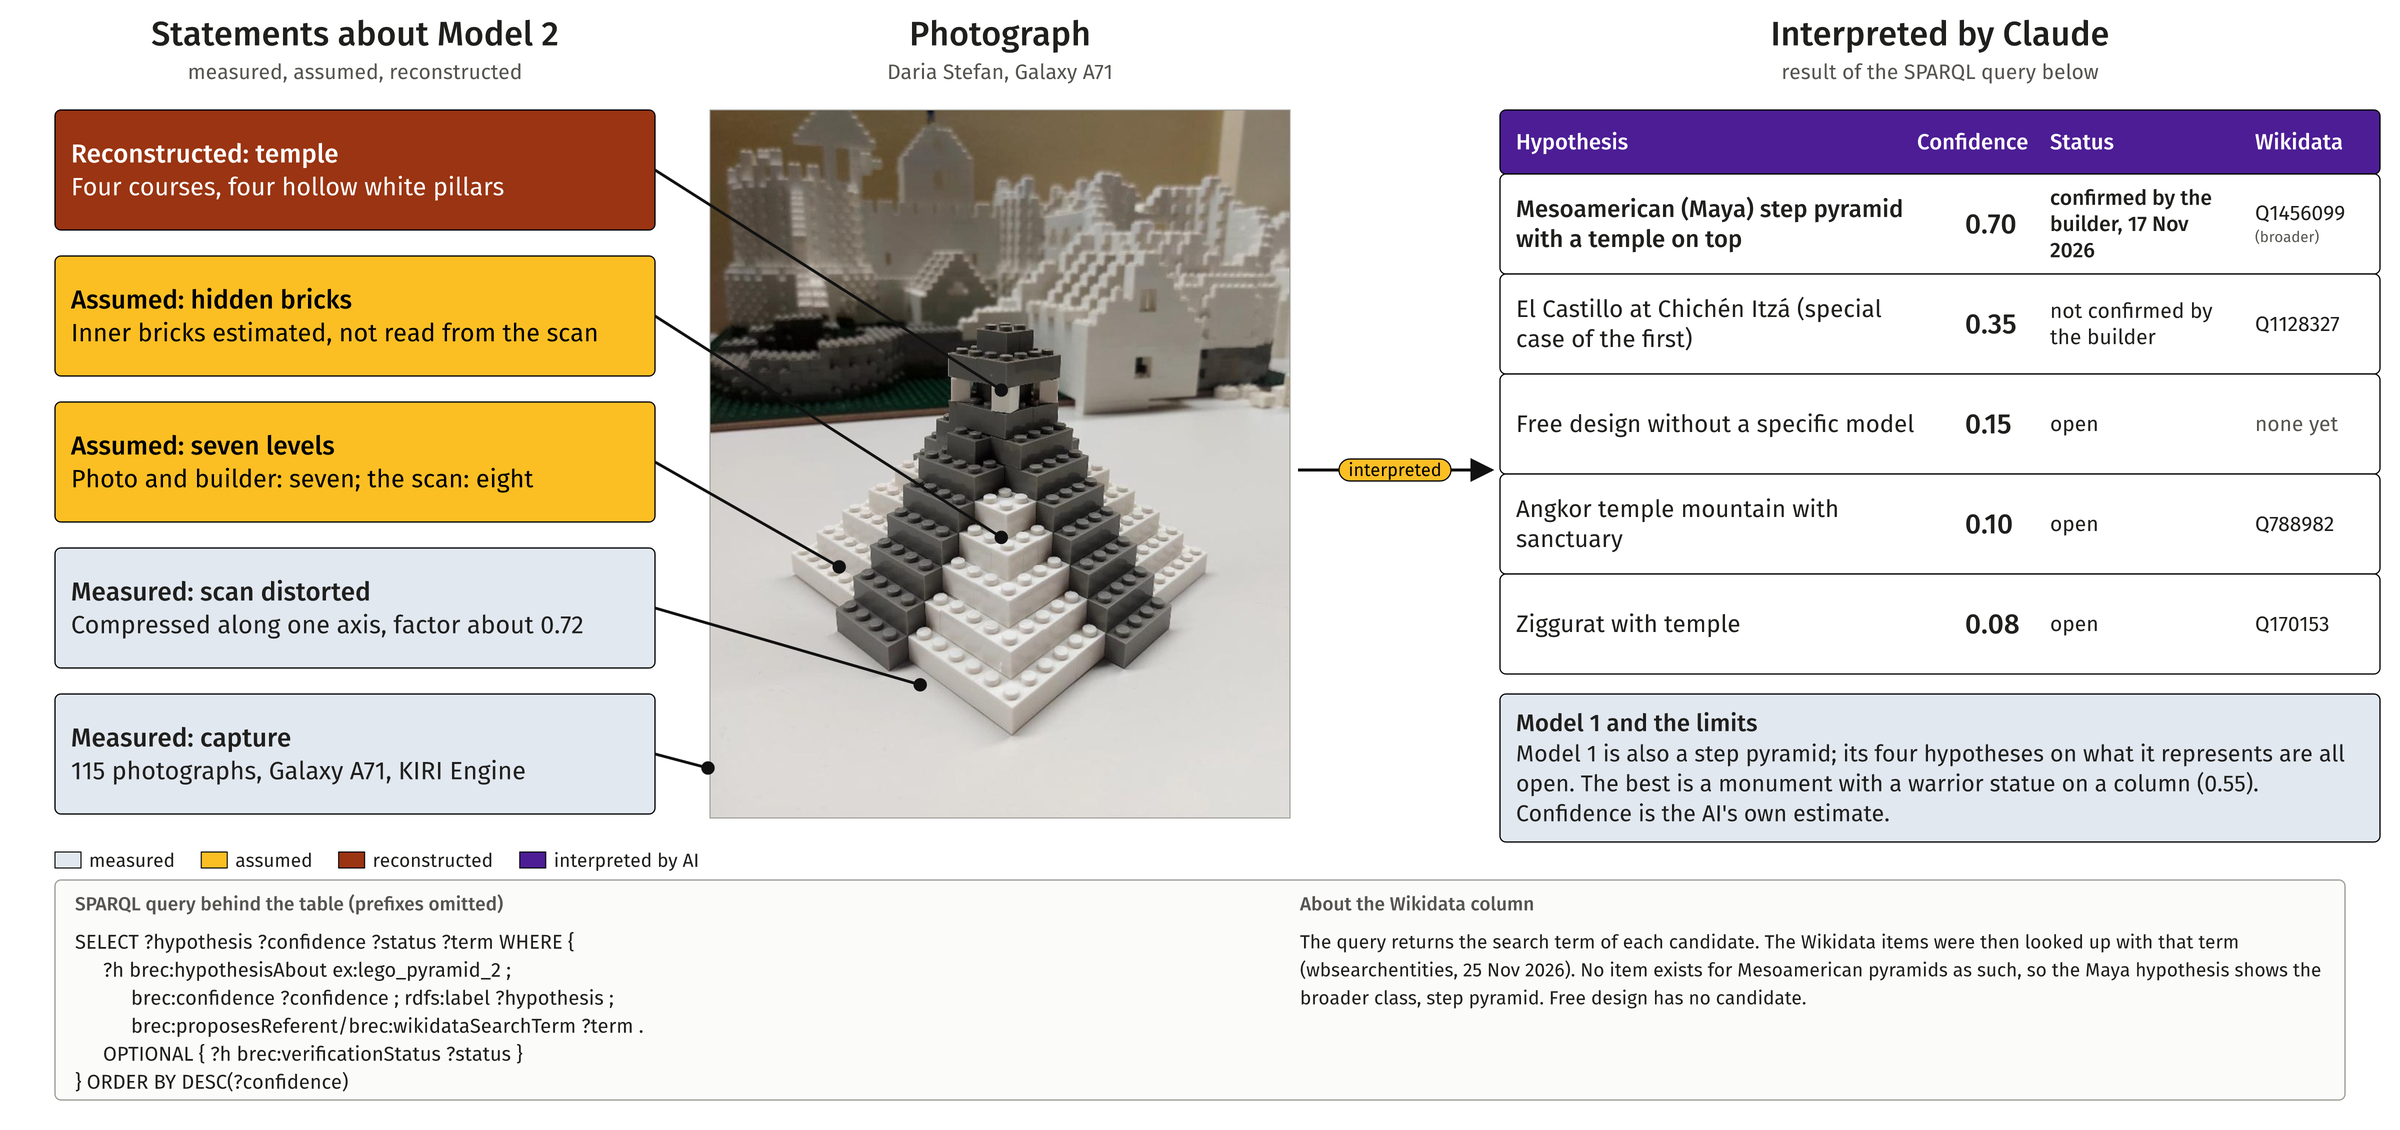
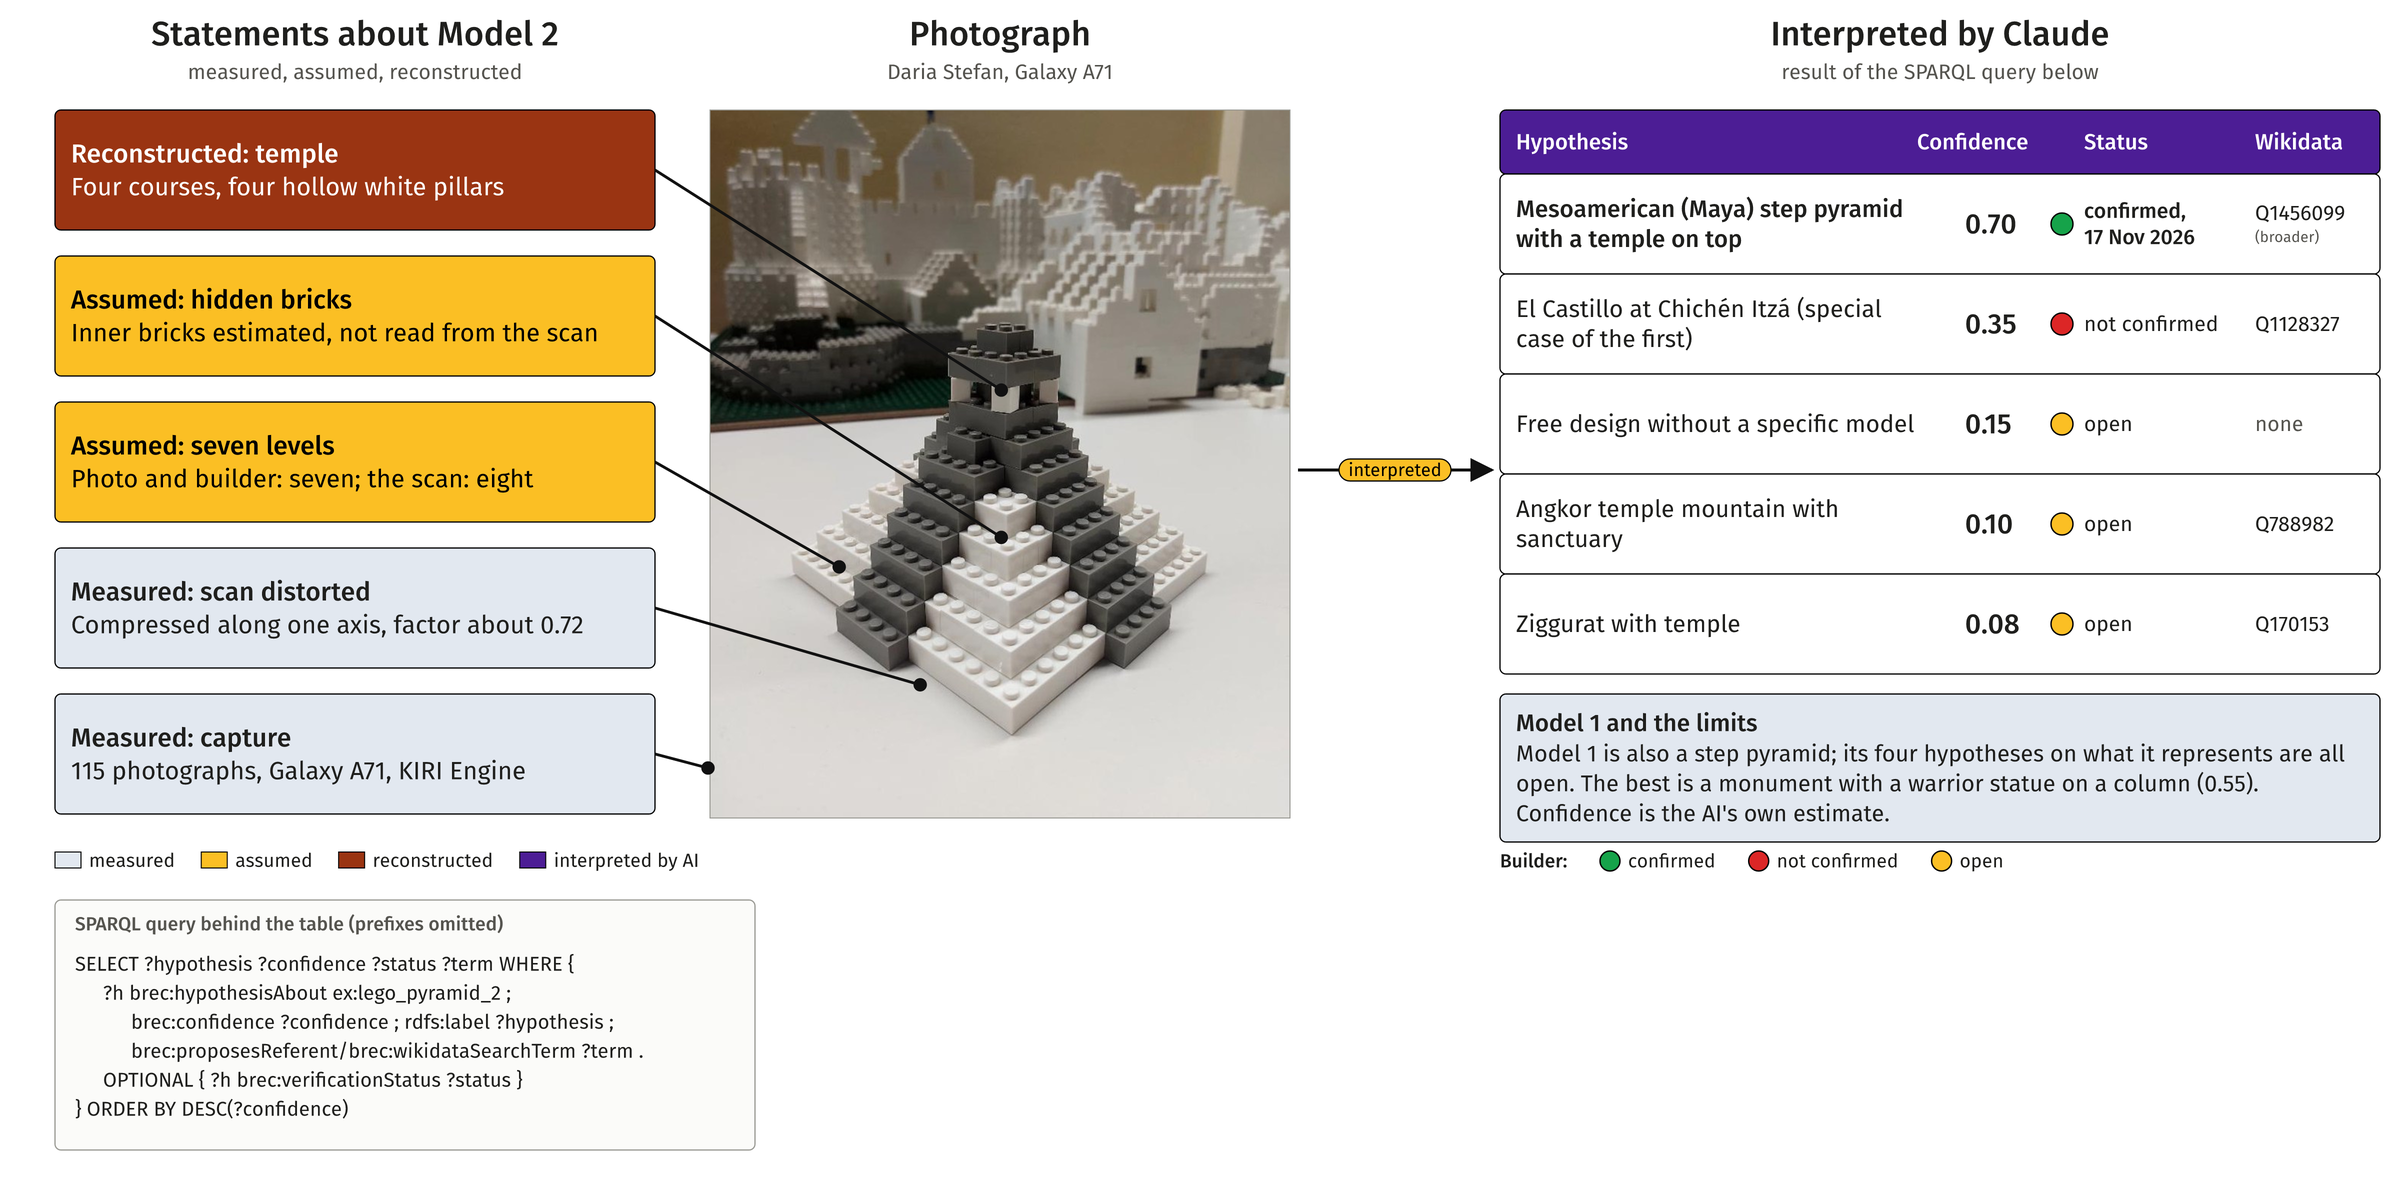
Poster Fig. 3: traffic lights for the builder's verdict, compact query box, Wikidata items
Green for confirmed, red for not confirmed, amber for open. The query sits in a box below the callouts without a side note. Q1128327 for El Castillo and Q1456099 (broader step pyramid) for the Maya hypothesis.

Claude-Session: https://claude.ai/code/session_0145BdeBMFFGobmaZDy6Deu8

Changed region(s): [[0.0, 0.0, 0.5625, 0.9912], [0.5312, 0.0, 1.0, 0.7434], [0.5312, 0.7743, 0.9688, 0.8982]]

diff --git a/dh2027/brec_poster/figures.py b/dh2027/brec_poster/figures.py
@@ -217,7 +217,7 @@ def fig2():
 
 # ---------------------------------------------------------------- Fig. 3: Model 2
 def fig3():
-    W, H = 2400, 1130
+    W, H = 2400, 1180
     svg = Svg(W, H)
     P0, PY, PWD, PHT = 710, 110, 580, 708
     LW = 600
@@ -244,9 +244,9 @@ def fig3():
         svg.block(55, y, LW, 120, [line], fill, head=head, size=26, pad=16)
         svg.arrow([(55 + LW, y + 60), (target[0] - 2, target[1])], head=False, dot=True, sw=2.8)
 
-    rows = [("Mesoamerican (Maya) step pyramid with a temple on top", "0.70", "confirmed by the builder, 17 Nov 2026", "Q1456099|(broader)"),
-            ("El Castillo at Chichén Itzá (special case of the first)", "0.35", "not confirmed by the builder", "Q1128327"),
-            ("Free design without a specific model", "0.15", "open", "none yet"),
+    rows = [("Mesoamerican (Maya) step pyramid with a temple on top", "0.70", "confirmed,|17 Nov 2026", "Q1456099|(broader)"),
+            ("El Castillo at Chichén Itzá (special case of the first)", "0.35", "not confirmed", "Q1128327"),
+            ("Free design without a specific model", "0.15", "open", "none"),
             ("Angkor temple mountain with sanctuary", "0.10", "open", "Q788982"),
             ("Ziggurat with temple", "0.08", "open", "Q170153")]
     cx = [TX + 16, TX + 445, TX + 550, TX + 755]
@@ -257,7 +257,7 @@ def fig3():
         for j, ln in enumerate(lines):
             svg.text(x, cy + (j - (len(lines) - 1) / 2) * lh, ln, size, med, fill, anchor, maxw=maxw)
     svg.rect(TX, 110, TW_, HH, PURPLE, name="thead")
-    for x, t in zip([cx[0], cx[1] - 28, cx[2], cx[3]], ["Hypothesis", "Confidence", "Status", "Wikidata"]):
+    for x, t in zip([cx[0], cx[1] - 28, cx[2] + 34, cx[3]], ["Hypothesis", "Confidence", "Status", "Wikidata"]):
         svg.text(x, 110 + HH / 2, t, 22, True, "#fff", "start", maxw=250)
     for i, (h, c, st, w) in enumerate(rows):
         y = 110 + HH + i * RH
@@ -265,13 +265,15 @@ def fig3():
         svg.rect(TX, y, TW_, RH, WHITE, name=f"row{i}")
         mtext(cx[0], cy, wrap(h, 24, 420, i == 0), 24, i == 0, maxw=430)
         mtext(cx[1] + 20, cy, [c], 28, True, maxw=90)
-        mtext(cx[2], cy, wrap(st, 21, 190, i == 0), 21, i == 0, maxw=200)
+        light = "#16a34a" if st.startswith("confirmed") else ("#dc2626" if st.startswith("not confirmed") else AMBER)
+        svg.o.append(f'<circle cx="{cx[2] + 12}" cy="{cy}" r="11" fill="{light}" stroke="#000" stroke-width="1.4"/>')
+        mtext(cx[2] + 34, cy, st.split("|"), 21, i == 0, maxw=170)
         ws = w.split("|")
         if len(ws) > 1:
             svg.text(cx[3], cy - 11, ws[0], 21, False, INK, maxw=110)
             svg.text(cx[3], cy + 13, ws[1], 15, False, MUTED, maxw=110)
         else:
-            svg.text(cx[3], cy, w, 21, False, MUTED if w == "none yet" else INK, maxw=110)
+            svg.text(cx[3], cy, w, 21, False, MUTED if w == "none" else INK, maxw=110)
     my = 110 + HH + 5 * RH + 20
     svg.block(TX, my, TW_, 842 - my, ["Model 1 is also a step pyramid; its four hypotheses on what it represents are all open. "
                                       "The best is a monument with a warrior statue on a column (0.55). Confidence is the AI's own estimate."],
@@ -279,9 +281,9 @@ def fig3():
     a, b = (P0 + PWD + 8, 470), (TX - 8, 470)
     svg.arrow([a, b], sw=3)
     svg.chip((a[0] + b[0]) / 2, 470, "interpreted", 18)
-    qy, qh = 880, 220
-    svg.rect(55, qy, W - 110, qh, "#fbfbf9", stroke="#9a9a94", name="query")
-    svg.text(75, qy + 24, "SPARQL query behind the table (prefixes omitted)", 19, True, MUTED, maxw=1100)
+    qy, qh = 900, 250
+    svg.rect(55, qy, 700, qh, "#fbfbf9", stroke="#9a9a94", name="query")
+    svg.text(75, qy + 24, "SPARQL query behind the table (prefixes omitted)", 19, True, MUTED, maxw=660)
     code = [(0, "SELECT ?hypothesis ?confidence ?status ?term WHERE {"),
             (1, "?h brec:hypothesisAbout ex:lego_pyramid_2 ;"),
             (2, "brec:confidence ?confidence ; rdfs:label ?hypothesis ;"),
@@ -289,14 +291,15 @@ def fig3():
             (1, "OPTIONAL { ?h brec:verificationStatus ?status }"),
             (0, "} ORDER BY DESC(?confidence)")]
     for j, (ind, t) in enumerate(code):
-        svg.text(75 + ind * 28, qy + 62 + j * 28, t, 20, False, INK, maxw=1100 - ind * 28)
-    nx = 1300
-    svg.text(nx, qy + 24, "About the Wikidata column", 19, True, MUTED, maxw=1000)
-    for j, t in enumerate(wrap("The query returns the search term of each candidate. The Wikidata items were then looked up with that term "
-                               "(wbsearchentities, 25 Nov 2026). No item exists for Mesoamerican pyramids as such, so the Maya hypothesis "
-                               "shows the broader class, step pyramid. Free design has no candidate.", 19, 1030)):
-        svg.text(nx, qy + 62 + j * 28, t, 19, False, INK, maxw=1040)
+        svg.text(75 + ind * 28, qy + 64 + j * 29, t, 20, False, INK, maxw=660 - ind * 28)
     svg.legend([(GREY, "measured"), (AMBER, "assumed"), (ORANGE, "reconstructed"), (PURPLE, "interpreted by AI")], 55, 852, 19)
+    lx = TX
+    svg.text(lx, 861, "Builder:", 19, True, INK, maxw=100)
+    lx += 100
+    for col, t in (("#16a34a", "confirmed"), ("#dc2626", "not confirmed"), (AMBER, "open")):
+        svg.o.append(f'<circle cx="{lx + 10}" cy="861" r="10" fill="{col}" stroke="#000" stroke-width="1.4"/>')
+        svg.text(lx + 28, 861, t, 19, False, INK, maxw=200)
+        lx += 60 + tw(t, 19)
     save(svg, "fig3_model2")
 
 
